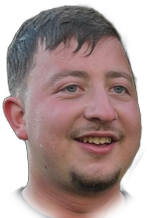
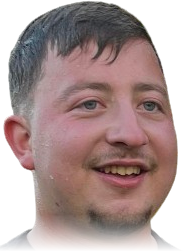
Projecteur : têtes mieux découpées (7 remplacées) et 6 nouvelles (p13 à p18)
Claude-Session: https://claude.ai/code/session_0139d5zRjaXxmeijvTW9kzDR

diff --git a/cam/projector/fx.js b/cam/projector/fx.js
@@ -7,7 +7,7 @@
   const ORDER = [20, 1, 18, 4, 13, 6, 10, 15, 2, 17, 3, 19, 7, 16, 8, 11, 14, 9, 12, 5];
   const RB = { bull: 6.35, obull: 15.9, tIn: 99, tOut: 107, dIn: 162, dOut: 170, board: 225.5, sur: 380, ring: 410 };
   const C = { fluo: '#FFE14D', sunset: '#FF7A2F', crep: '#FF4D8D', ciel: '#4FA3FF' };
-  const HAPPY = ['p01', 'p04', 'p05', 'p08', 'p11'];
+  const HAPPY = ['p01', 'p04', 'p05', 'p08', 'p11', 'p13', 'p16', 'p18'];
   // Zones libres autour de la cible (projecteur sur la baie, à gauche) : score, têtes, tags.
   // Tout reste sur le surround (anneau gris entre le bord de la cible et son bord extérieur) : rien sur le mur.
   const LAY = { score: { x: -255, y: 150, w: 110, h: 100 }, left: { x: -255, y: -150, w: 110, h: 110 }, tag: { x: 300, y: 0, w: 120, h: 110 } };
@@ -26,7 +26,7 @@
 
   function init(canvas, headUrl) {
     canvas.width = LCW; canvas.height = LCH; g2 = canvas.getContext('2d');
-    for (let i = 1; i <= 12; i++) { const n = 'p' + String(i).padStart(2, '0'); const im = new Image(); im.src = headUrl + n + '.png'; heads[n] = im; }
+    for (let i = 1; i <= 18; i++) { const n = 'p' + String(i).padStart(2, '0'); const im = new Image(); im.src = headUrl + n + '.png'; heads[n] = im; }
   }
   const ready = im => im && im.complete && im.naturalWidth > 0;
 
